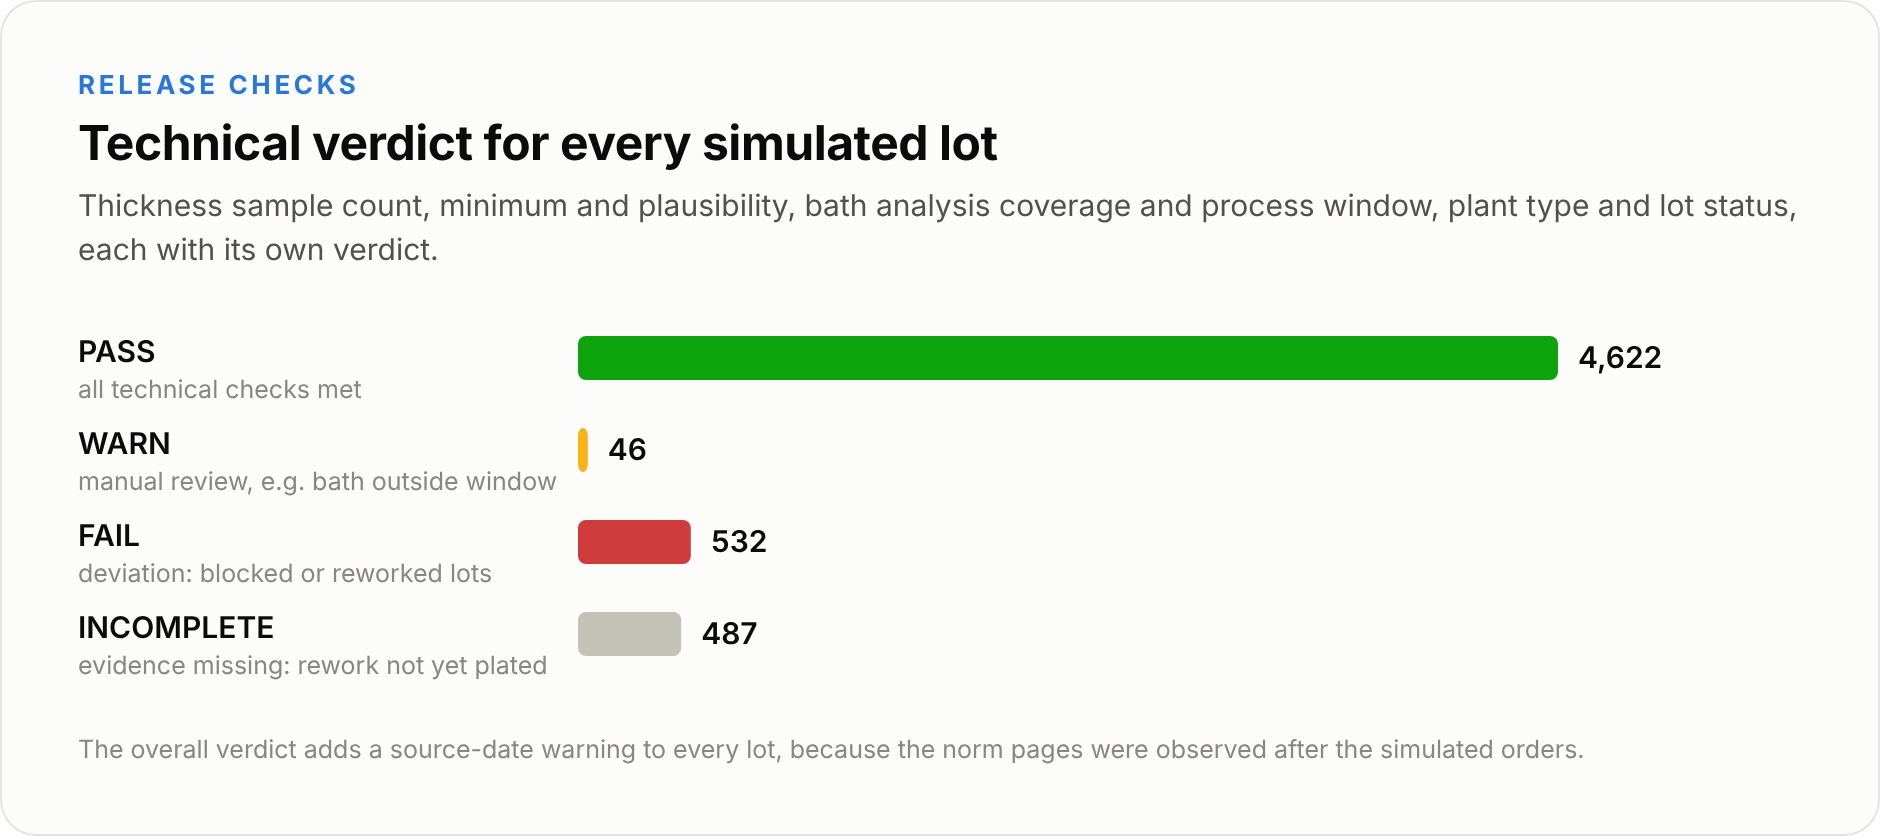
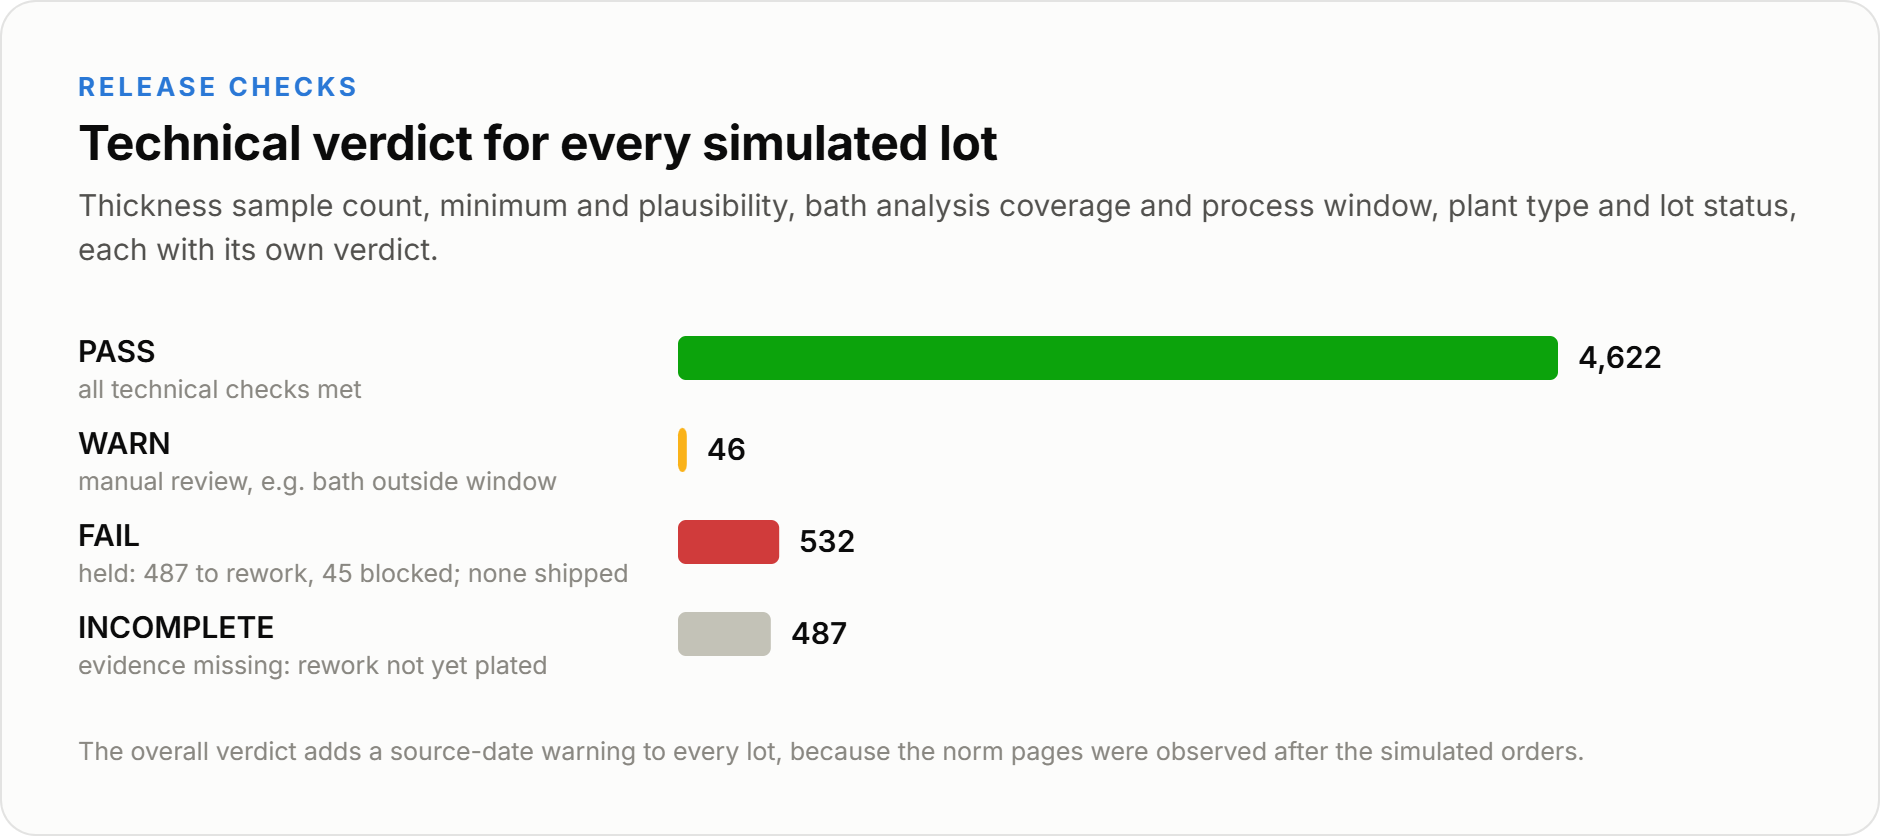
Add a German summary and label the held FAIL lots in the verdict chart
All 532 FAIL lots were held (487 sent to rework, 45 blocked) and none shipped; the chart now says so. Also keep .git out of the Docker build context.

diff --git a/README.md b/README.md
@@ -5,11 +5,13 @@
 
 Before a lot ships, someone has to check it against the customer's coating specification. This project turns published coating norm tables into a versioned PostgreSQL catalog, links every lot to the exact table row it was ordered against, checks thickness and bath evidence, and writes a one page German inspection report whose PDF carries the hash of its JSON evidence.
 
+> **Kurzfassung:** Die auf der Partec-Website veröffentlichten Normtabellen werden als versionierter Katalog gespeichert. Jedes simulierte Los wird mit der Tabellenzeile verknüpft, die am Auftragsdatum galt, und gegen Schichtdicke, Badanalysen, Anlagenart und Losstatus geprüft. Ergebnis ist ein einseitiger Prüfbericht als PDF, dessen Fußzeile den Hash des JSON-Datenstands trägt.
+
 <p align="center"><img src="docs/figures/pipeline.png" alt="From published norm page to versioned catalog, lot matching, release checks and the inspection report" width="100%"></p>
 
 <table>
 <tr>
-<td width="58%"><img src="docs/figures/verdicts.png" alt="Technical verdicts for all simulated lots: 4,622 pass, 46 warn, 532 fail, 487 incomplete"></td>
+<td width="58%"><img src="docs/figures/verdicts.png" alt="Technical verdicts for all simulated lots: 4,622 pass, 46 warn, 532 fail (held: 487 sent to rework, 45 blocked, none shipped), 487 incomplete"></td>
 <td width="42%"><img src="docs/reports/Pruefbericht_L260430-01721_preview.png" alt="Top of the generated German inspection report for the complaint lot"><br><sub>Generated Pr&uuml;fbericht (<a href="docs/reports/Pruefbericht_L260430-01721.pdf">full PDF</a>)</sub></td>
 </tr>
 </table>
